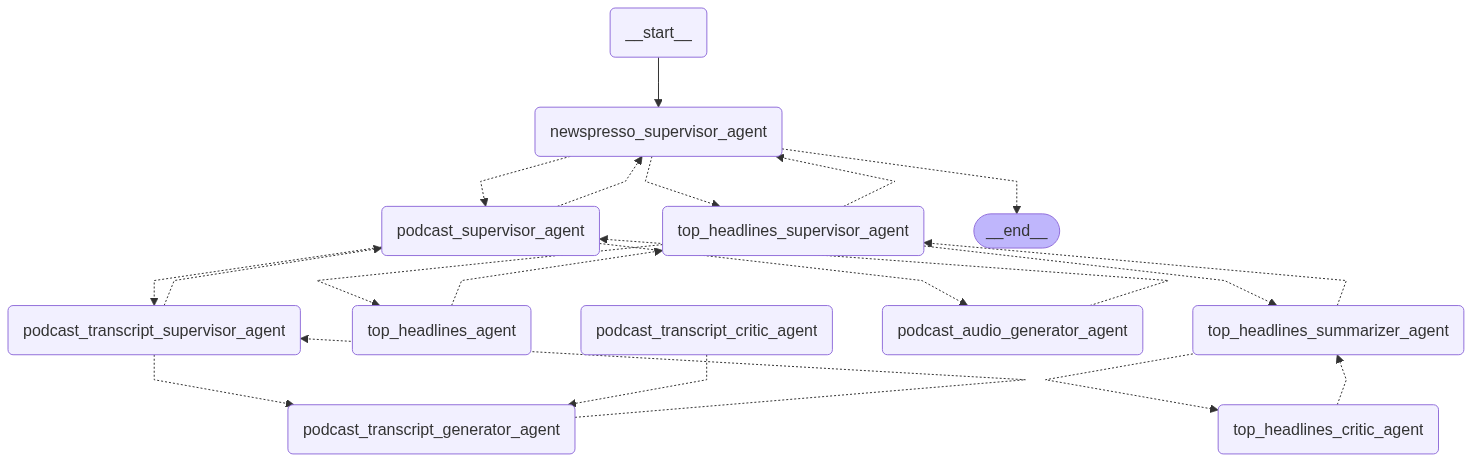
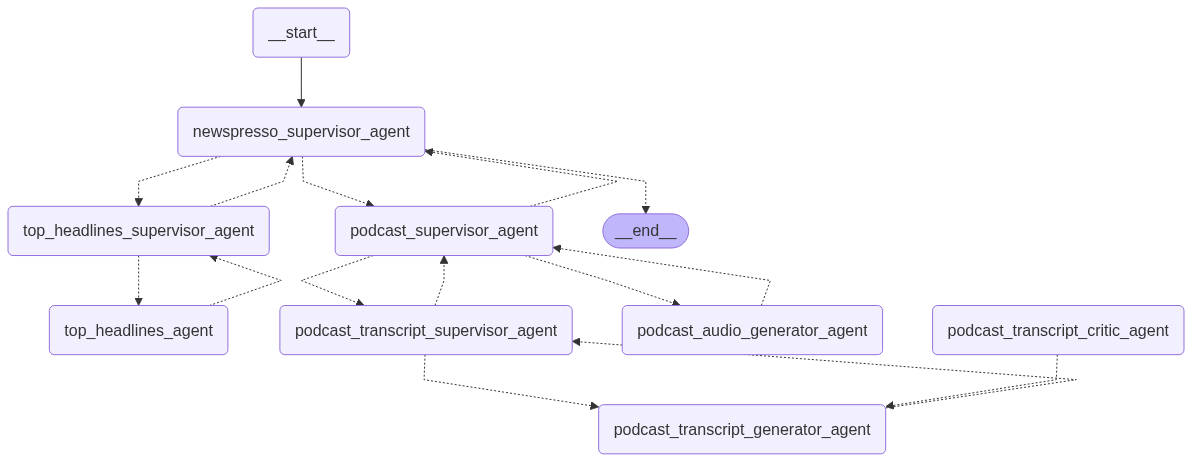
remove news summarizer

diff --git a/ML Projects/Langgraph-Practice/15-news-summarizer/functions/newspresso_team/top_headlines_team/top_headlines_agent.py b/ML Projects/Langgraph-Practice/15-news-summarizer/functions/newspresso_team/top_headlines_team/top_headlines_agent.py
@@ -10,33 +10,37 @@ def top_headlines_node(state: AgentState) -> Command[Literal[TOP_HEADLINES_SUPER
     print("===STATE AT TOP HEADLINES NODE=====")
     print(state)
 
-    def get_topic_from_user_question(question: str) -> str:
-        """Get the topic from the user request."""
-        system_prompt = """You are given a user question and you need to extract the topic from it.
-                       These are the topics you can choose from: \n
+    def get_category_class_from_user_question(question: str) -> str:
+        """Get the category from the user request."""
+        system_prompt = """You are given a user question and you need to extract the category from it.
+                       These are the categories you can choose from: \n
                         - business \n
                         - technology \n
                         - science \n
                         - health \n
                         - entertainment \n
                         - sports \n
-                        - general (choose this if cannot find a specific topic) \n
+                        - general (choose this if cannot find a specific category) \n
+
+                        Also, find out what country the user is from. If not mentioned, choose USA.
                        """
         prompt = ChatPromptTemplate.from_messages([
             ("system", system_prompt),
             ("user", "Here's the user question: {question}"),
         ])
         llm_with_structured_output = llm.with_structured_output(CategoryClass)
-        topic_extractor_chain = prompt | llm_with_structured_output
+        category_extractor_chain = prompt | llm_with_structured_output
         invoke_message = {"question": question}
-        result = topic_extractor_chain.invoke(invoke_message)
-        print("===RESULT OF TOPIC EXTRACTOR CHAIN=====")
+        result = category_extractor_chain.invoke(invoke_message)
+        print("===RESULT OF CATEGORY EXTRACTOR CHAIN=====")
         print(result)
-        return result["category"]
+        return result["category"], result["country"]
 
     user_question = state["messages"][0].content
-    category = get_topic_from_user_question(user_question)
-    payload = get_perplexity_payload(f"What are the top 5 headlines in the {category} category for today?")
+    category_class = get_category_class_from_user_question(user_question)
+    category = category_class[0]
+    country = category_class[1]
+    payload = get_perplexity_payload(f"What are the top 5 headlines in the {category} category for today in {country}?")
     headers = get_perplexity_headers()
     response = requests.request("POST", PERPLEXITY_API_URL, json=payload, headers=headers)
     top_headlines = response.json()["choices"][0]["message"]["content"]
@@ -70,15 +74,15 @@ def top_headlines_node(state: AgentState) -> Command[Literal[TOP_HEADLINES_SUPER
     print(result)
 
     current_top_headlines = TopHeadlinesClass(
-        top_headlines_processed_news_file=processsed_news_file_path
+            top_headlines_summary_json_file=summary_json_file
     )
     if state.get("top_headlines_class") is not None:
         current_top_headlines = state["top_headlines_class"].copy()
-        current_top_headlines["top_headlines_processed_news_file"] = processsed_news_file_path
+        current_top_headlines["top_headlines_summary_json_file"] = summary_json_file
     return Command(
         update={
             "messages": [
-                HumanMessage(content="Top headlines fetched successfully. The json file was saved and has been pushed to the firebase database.", name=TOP_HEADLINES_AGENT)
+                HumanMessage(content="Top headlines fetched and summarized successfully. The json file was saved and has been pushed to the firebase database.", name=TOP_HEADLINES_AGENT)
             ],
             "top_headlines_class": current_top_headlines,
             "category_class": CategoryClass(category=category),

diff --git a/ML Projects/Langgraph-Practice/15-news-summarizer/graph.py b/ML Projects/Langgraph-Practice/15-news-summarizer/graph.py
@@ -1,9 +1,7 @@
 from functions.newspresso_team.newspresso_supervisor_agent import newspresso_supervisor_agent
 
 from functions.newspresso_team.top_headlines_team.top_headlines_supervisor_agent import top_headlines_supervisor_agent
-from functions.newspresso_team.top_headlines_team.top_headlines_summarizer_agent import top_headlines_summarizer_node
 from functions.newspresso_team.top_headlines_team.top_headlines_agent import top_headlines_node
-from functions.newspresso_team.top_headlines_team.top_headlines_critic_agent import top_headlines_critic_node
 
 from functions.newspresso_team.podcast_team.podcast_supervisor_agent import podcast_supervisor_agent
 from functions.newspresso_team.podcast_team.podcast_transcript_supervisor_agent.podcast_transcript_supervisor_agent import podcast_transcript_supervisor_agent
@@ -20,9 +18,7 @@ workflow = StateGraph(AgentState)
 workflow.add_node(NEWSPRESSO_SUPERVISOR_AGENT, newspresso_supervisor_agent)
 
 workflow.add_node(TOP_HEADLINES_SUPERVISOR_AGENT, top_headlines_supervisor_agent)
-workflow.add_node(TOP_HEADLINES_SUMMARIZER_AGENT, top_headlines_summarizer_node)
 workflow.add_node(TOP_HEADLINES_AGENT, top_headlines_node)
-workflow.add_node(TOP_HEADLINES_CRITIC_AGENT, top_headlines_critic_node)
 
 workflow.add_node(PODCAST_SUPERVISOR_AGENT, podcast_supervisor_agent)
 workflow.add_node(PODCAST_TRANSCRIPT_SUPERVISOR_AGENT, podcast_transcript_supervisor_agent)

diff --git a/ML Projects/Langgraph-Practice/15-news-summarizer/functions/newspresso_team/top_headlines_team/top_headlines_supervisor_agent.py b/ML Projects/Langgraph-Practice/15-news-summarizer/functions/newspresso_team/top_headlines_team/top_headlines_supervisor_agent.py
@@ -49,7 +49,7 @@ def make_top_headlines_supervisor_node(llm, members, role_of_each_worker) -> str
             update={
                 "next": goto,
                 "messages": [
-                    HumanMessage(content="The top headlines were generated, summarized and saved to the file.", name=TOP_HEADLINES_SUPERVISOR_AGENT)
+                    HumanMessage(content="The top headlines were generated, summarized and saved to the file and pushed to the firebase database.", name=TOP_HEADLINES_SUPERVISOR_AGENT)
                 ]
             }
            )
@@ -61,8 +61,7 @@ def make_top_headlines_supervisor_node(llm, members, role_of_each_worker) -> str
 
 
 role_of_each_top_headlines_worker = {
-    TOP_HEADLINES_AGENT: "Agent who is tasked with providing the top headlines with full content.",
-    TOP_HEADLINES_SUMMARIZER_AGENT: "Agent who is tasked with summarizing the top headlines. The summary should be written to a text file and a json file and pushed to the firebase database.",
+    TOP_HEADLINES_AGENT: "Agent who is tasked with providing the summary of the top headlines. Moreover, the summary is written to a json file and pushed to the firebase database.",
 }
 
 # TOP HEADLINES SUPERVISOR

diff --git a/ML Projects/Langgraph-Practice/15-news-summarizer/functions/newspresso_team/newspresso_supervisor_agent.py b/ML Projects/Langgraph-Practice/15-news-summarizer/functions/newspresso_team/newspresso_supervisor_agent.py
@@ -48,7 +48,7 @@ def make_newspresso_supervisor_node(llm, members, role_of_each_worker) -> str:
 
 role_of_each_newspresso_supervisor_worker = {
     PODCAST_SUPERVISOR_AGENT: "Supervisor agent who is tasked with providing the fine tuned podcast script and audio file. The goal is to first generate a fine tuned podcast transcript and then write it to a file. Lastly, the audio file should be generated from the fine tuned transcript.",
-    TOP_HEADLINES_SUPERVISOR_AGENT: "Supervisor agent who is tasked with providing the top headlines along with the summary of the news. The goal is to first get the top headlines, then summarize the news and then write it to a file."
+    TOP_HEADLINES_SUPERVISOR_AGENT: "Supervisor agent who is tasked with providing the top headlines along with the summary of the news. The goal is to fetch the top headlines and summarize the news. Moreover, the summary is written to a json file and pushed to the firebase database."
 }
 
 

diff --git a/ML Projects/Langgraph-Practice/15-news-summarizer/main.py b/ML Projects/Langgraph-Practice/15-news-summarizer/main.py
@@ -29,7 +29,7 @@ if __name__ == "__main__":
     # question = "What is ((3*5) + 10)*5? Also, who's the richest person in the world?"
     # processsed_news_file_path = NewsTool().processed_news_path
     # print(processsed_news_file_path)
-    question = "What are the top headlines in the entertainment category for today? Create a podcast on the same."
+    question = "What are the top headlines in the general category for today? Create a podcast on the same."
     displayGraph(graph)
     result = graph.invoke({"messages": [question]}, config={"recursion_limit": 35})
     print("======RESULT=======")

diff --git a/ML Projects/Langgraph-Practice/15-news-summarizer/classes.py b/ML Projects/Langgraph-Practice/15-news-summarizer/classes.py
@@ -2,6 +2,7 @@ from common_imports import *
 
 class CategoryClass(TypedDict):
     category: str = Field(description="The category of the news")
+    country: str = Field(description="The country of the news")
 
 class PodcastClass(TypedDict):
     podcast_transcript: str = Field(description="The podcast transcript")
